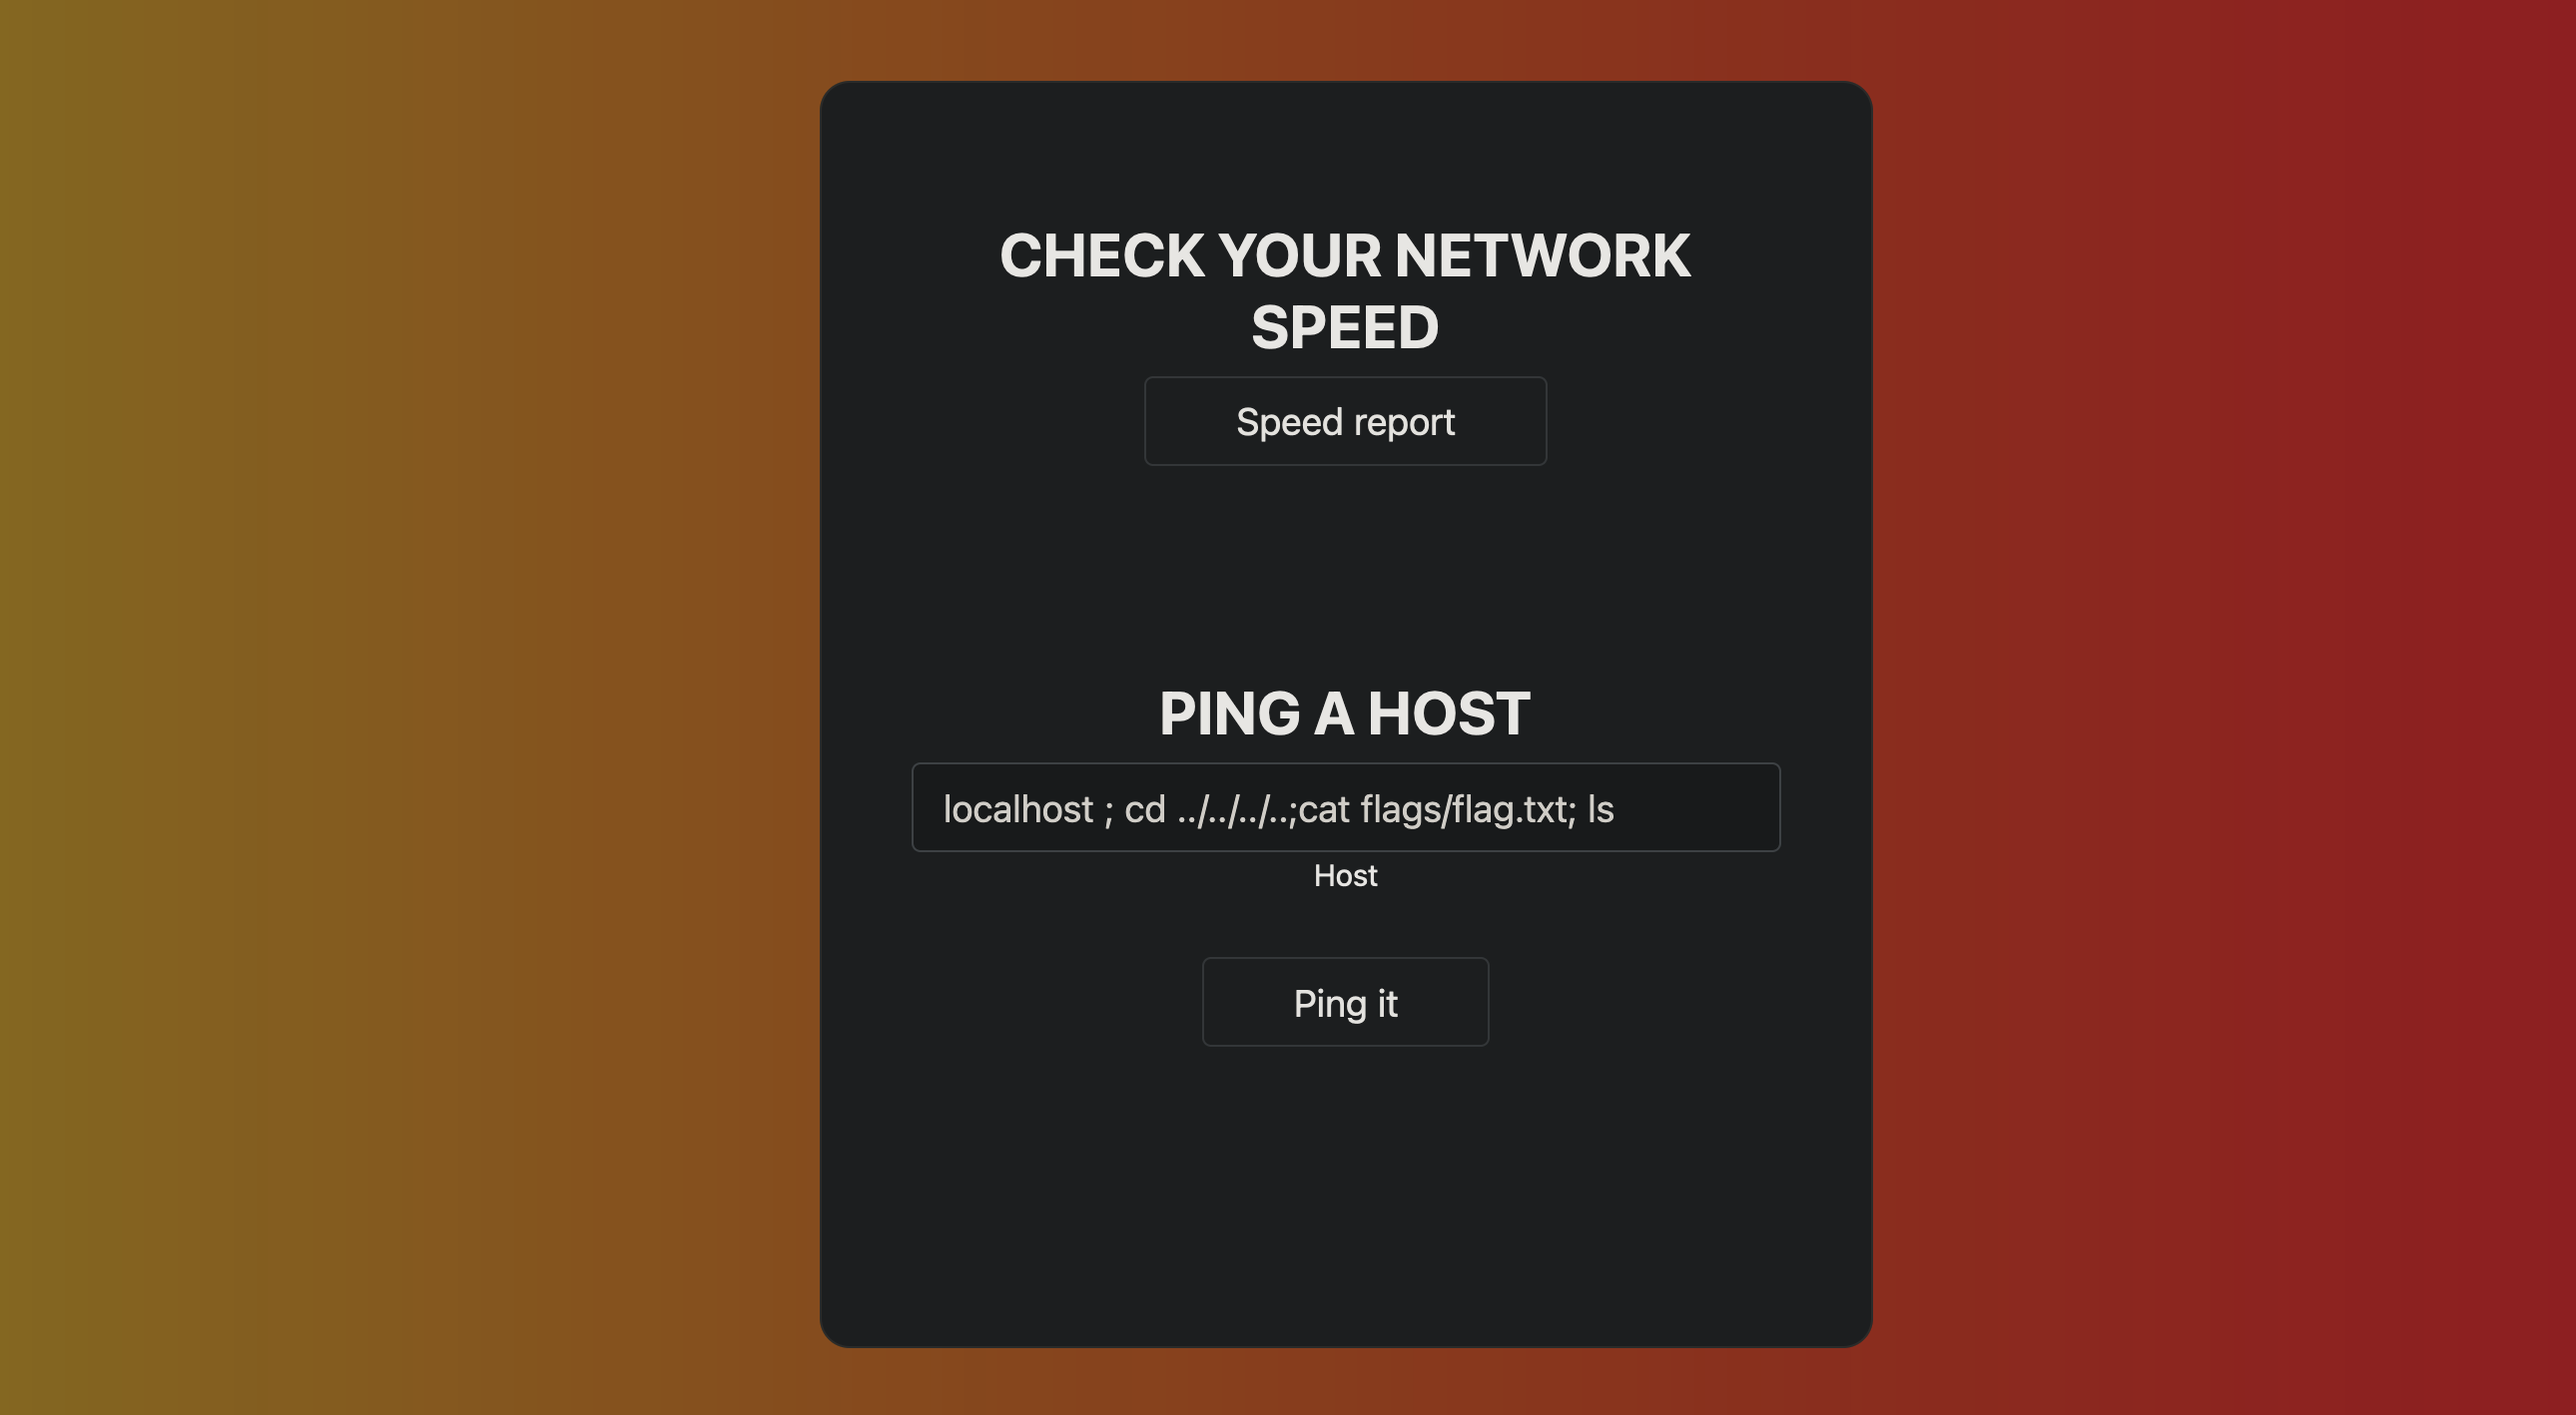
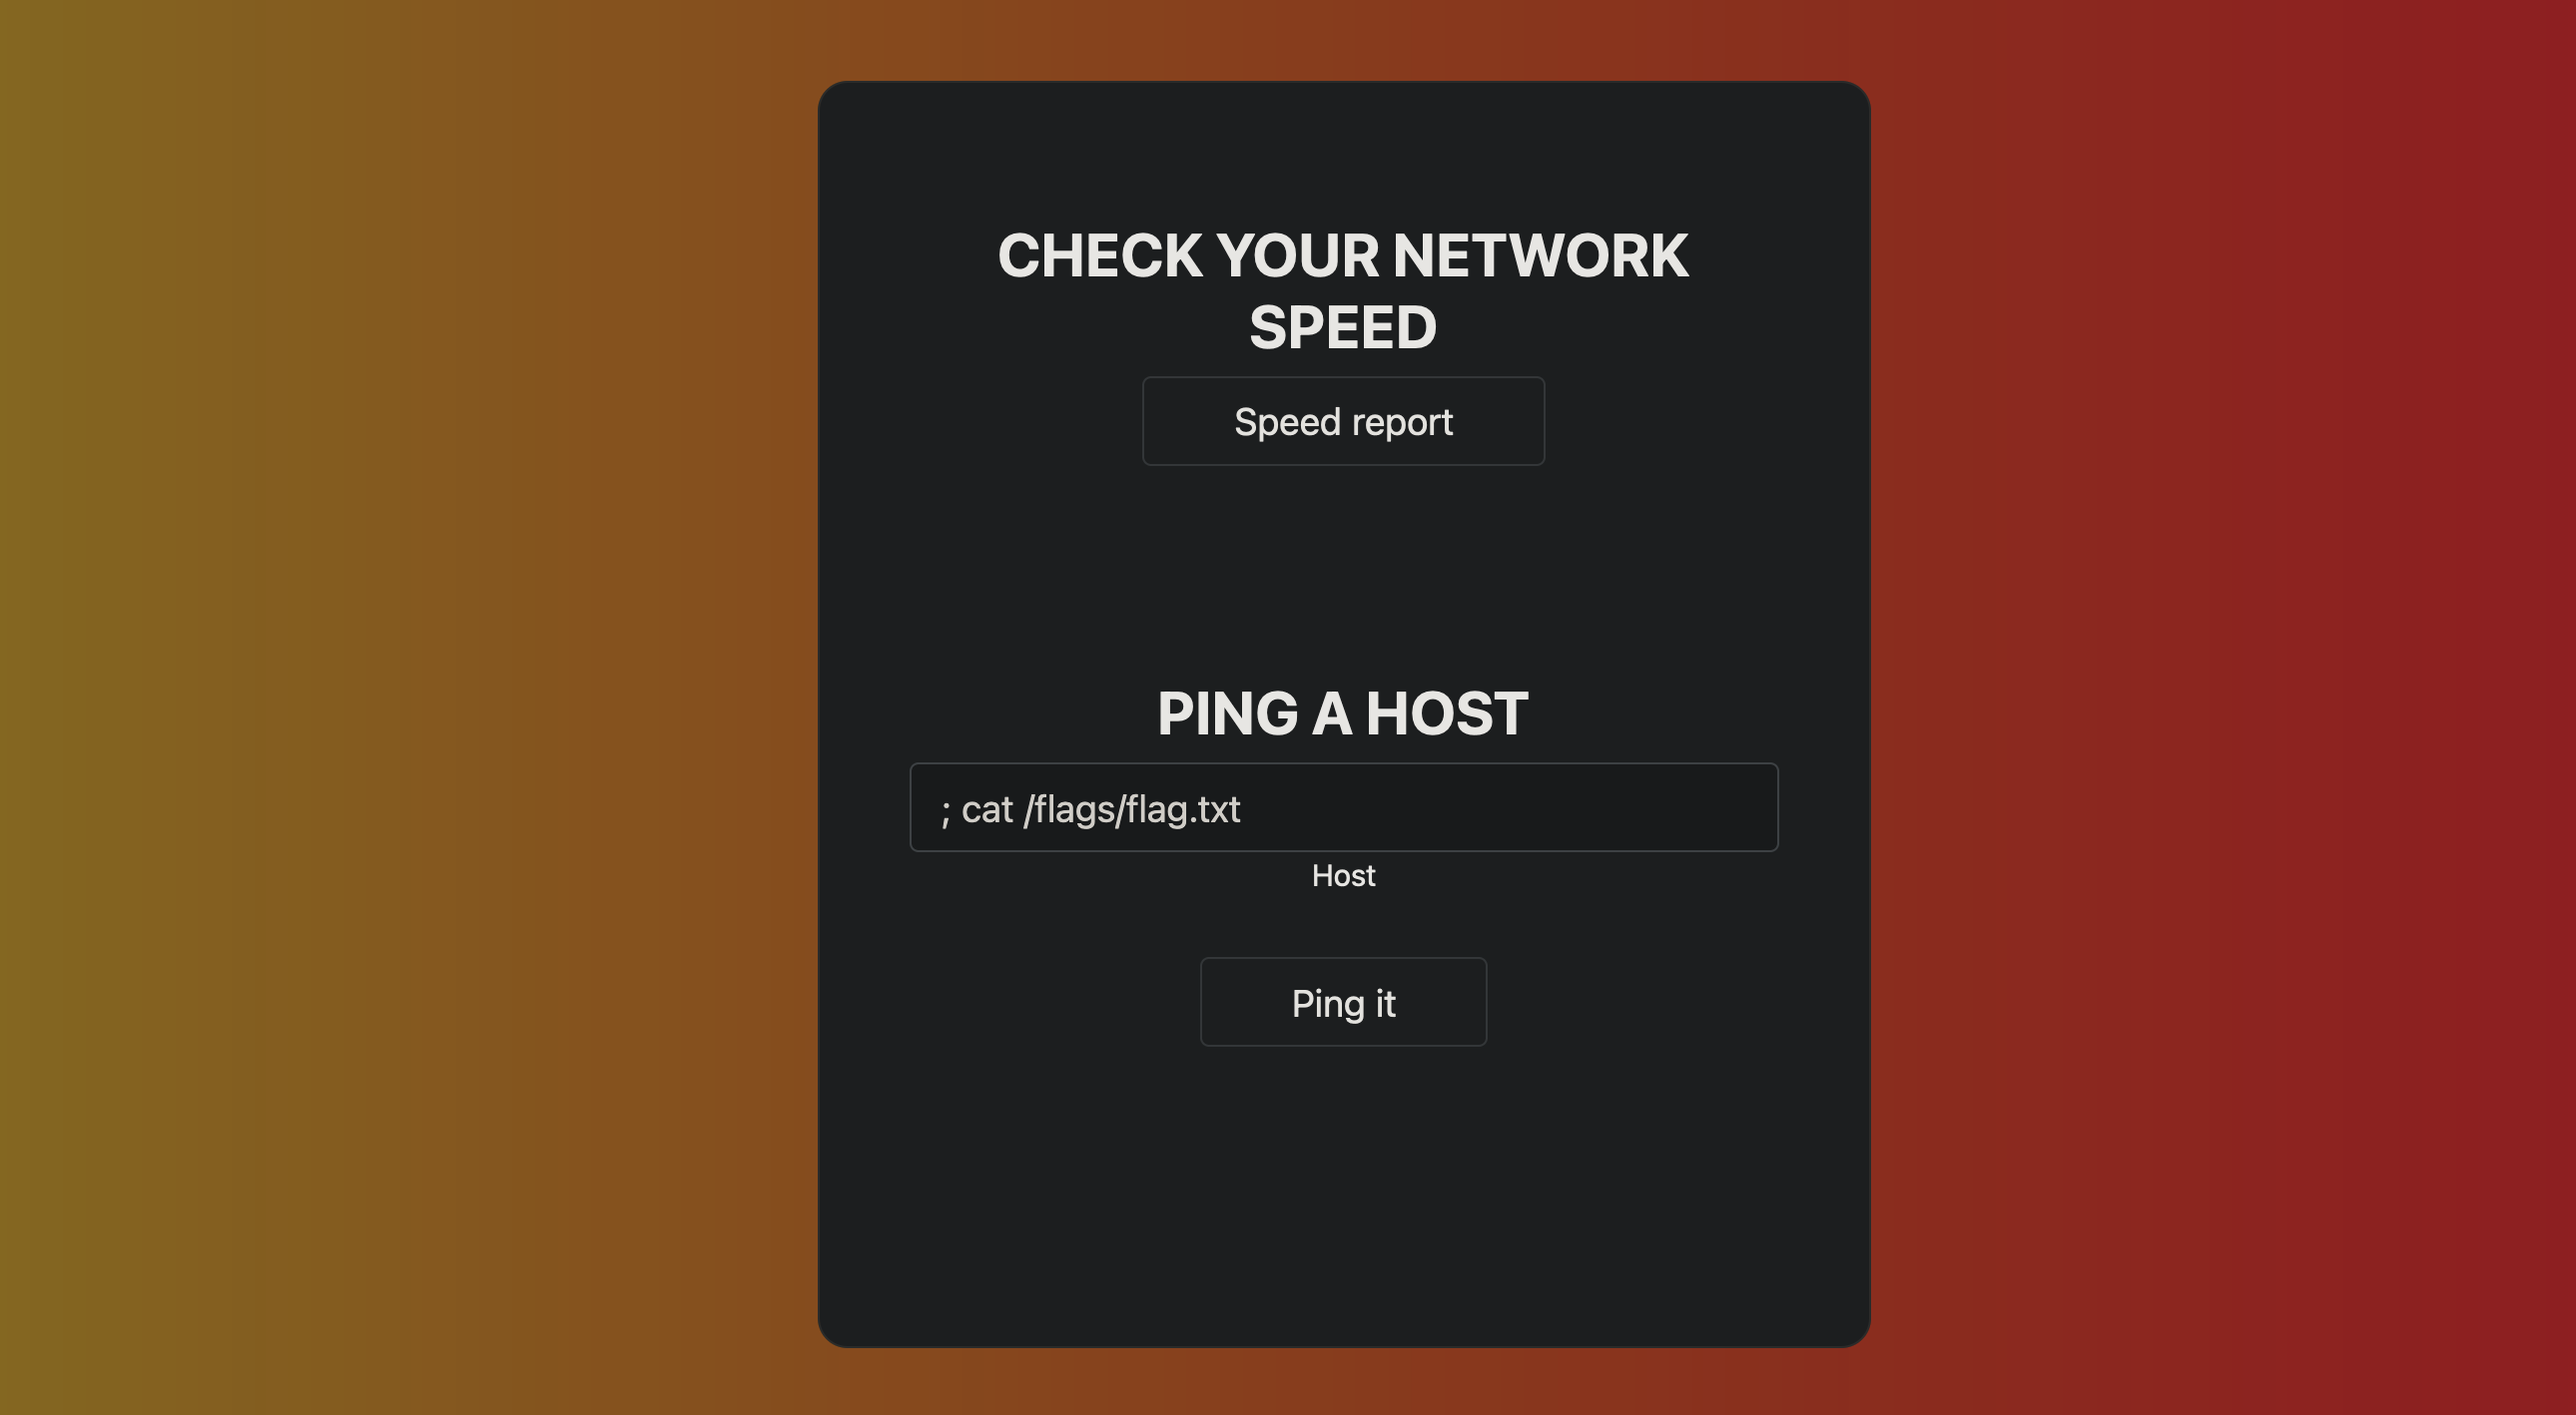
correction to challenge2

diff --git a/CTFs/CTFW10.md b/CTFs/CTFW10.md
@@ -27,7 +27,7 @@
 >
 > Therefore we could exploit this to chain multiple linux commands to access the flag.txt file and get the flag.
 >
-> We started by using ls and cd to navigate through the file system until we found the "flags" folder:
+> Using cat we were able to read the content of the /flags/flag.txt file:
 > ![desafio2](../docs/ctf10/desafio2.png)
 > After submitting:
 > ![flag](../docs/ctf10/desafio2flag.png)
